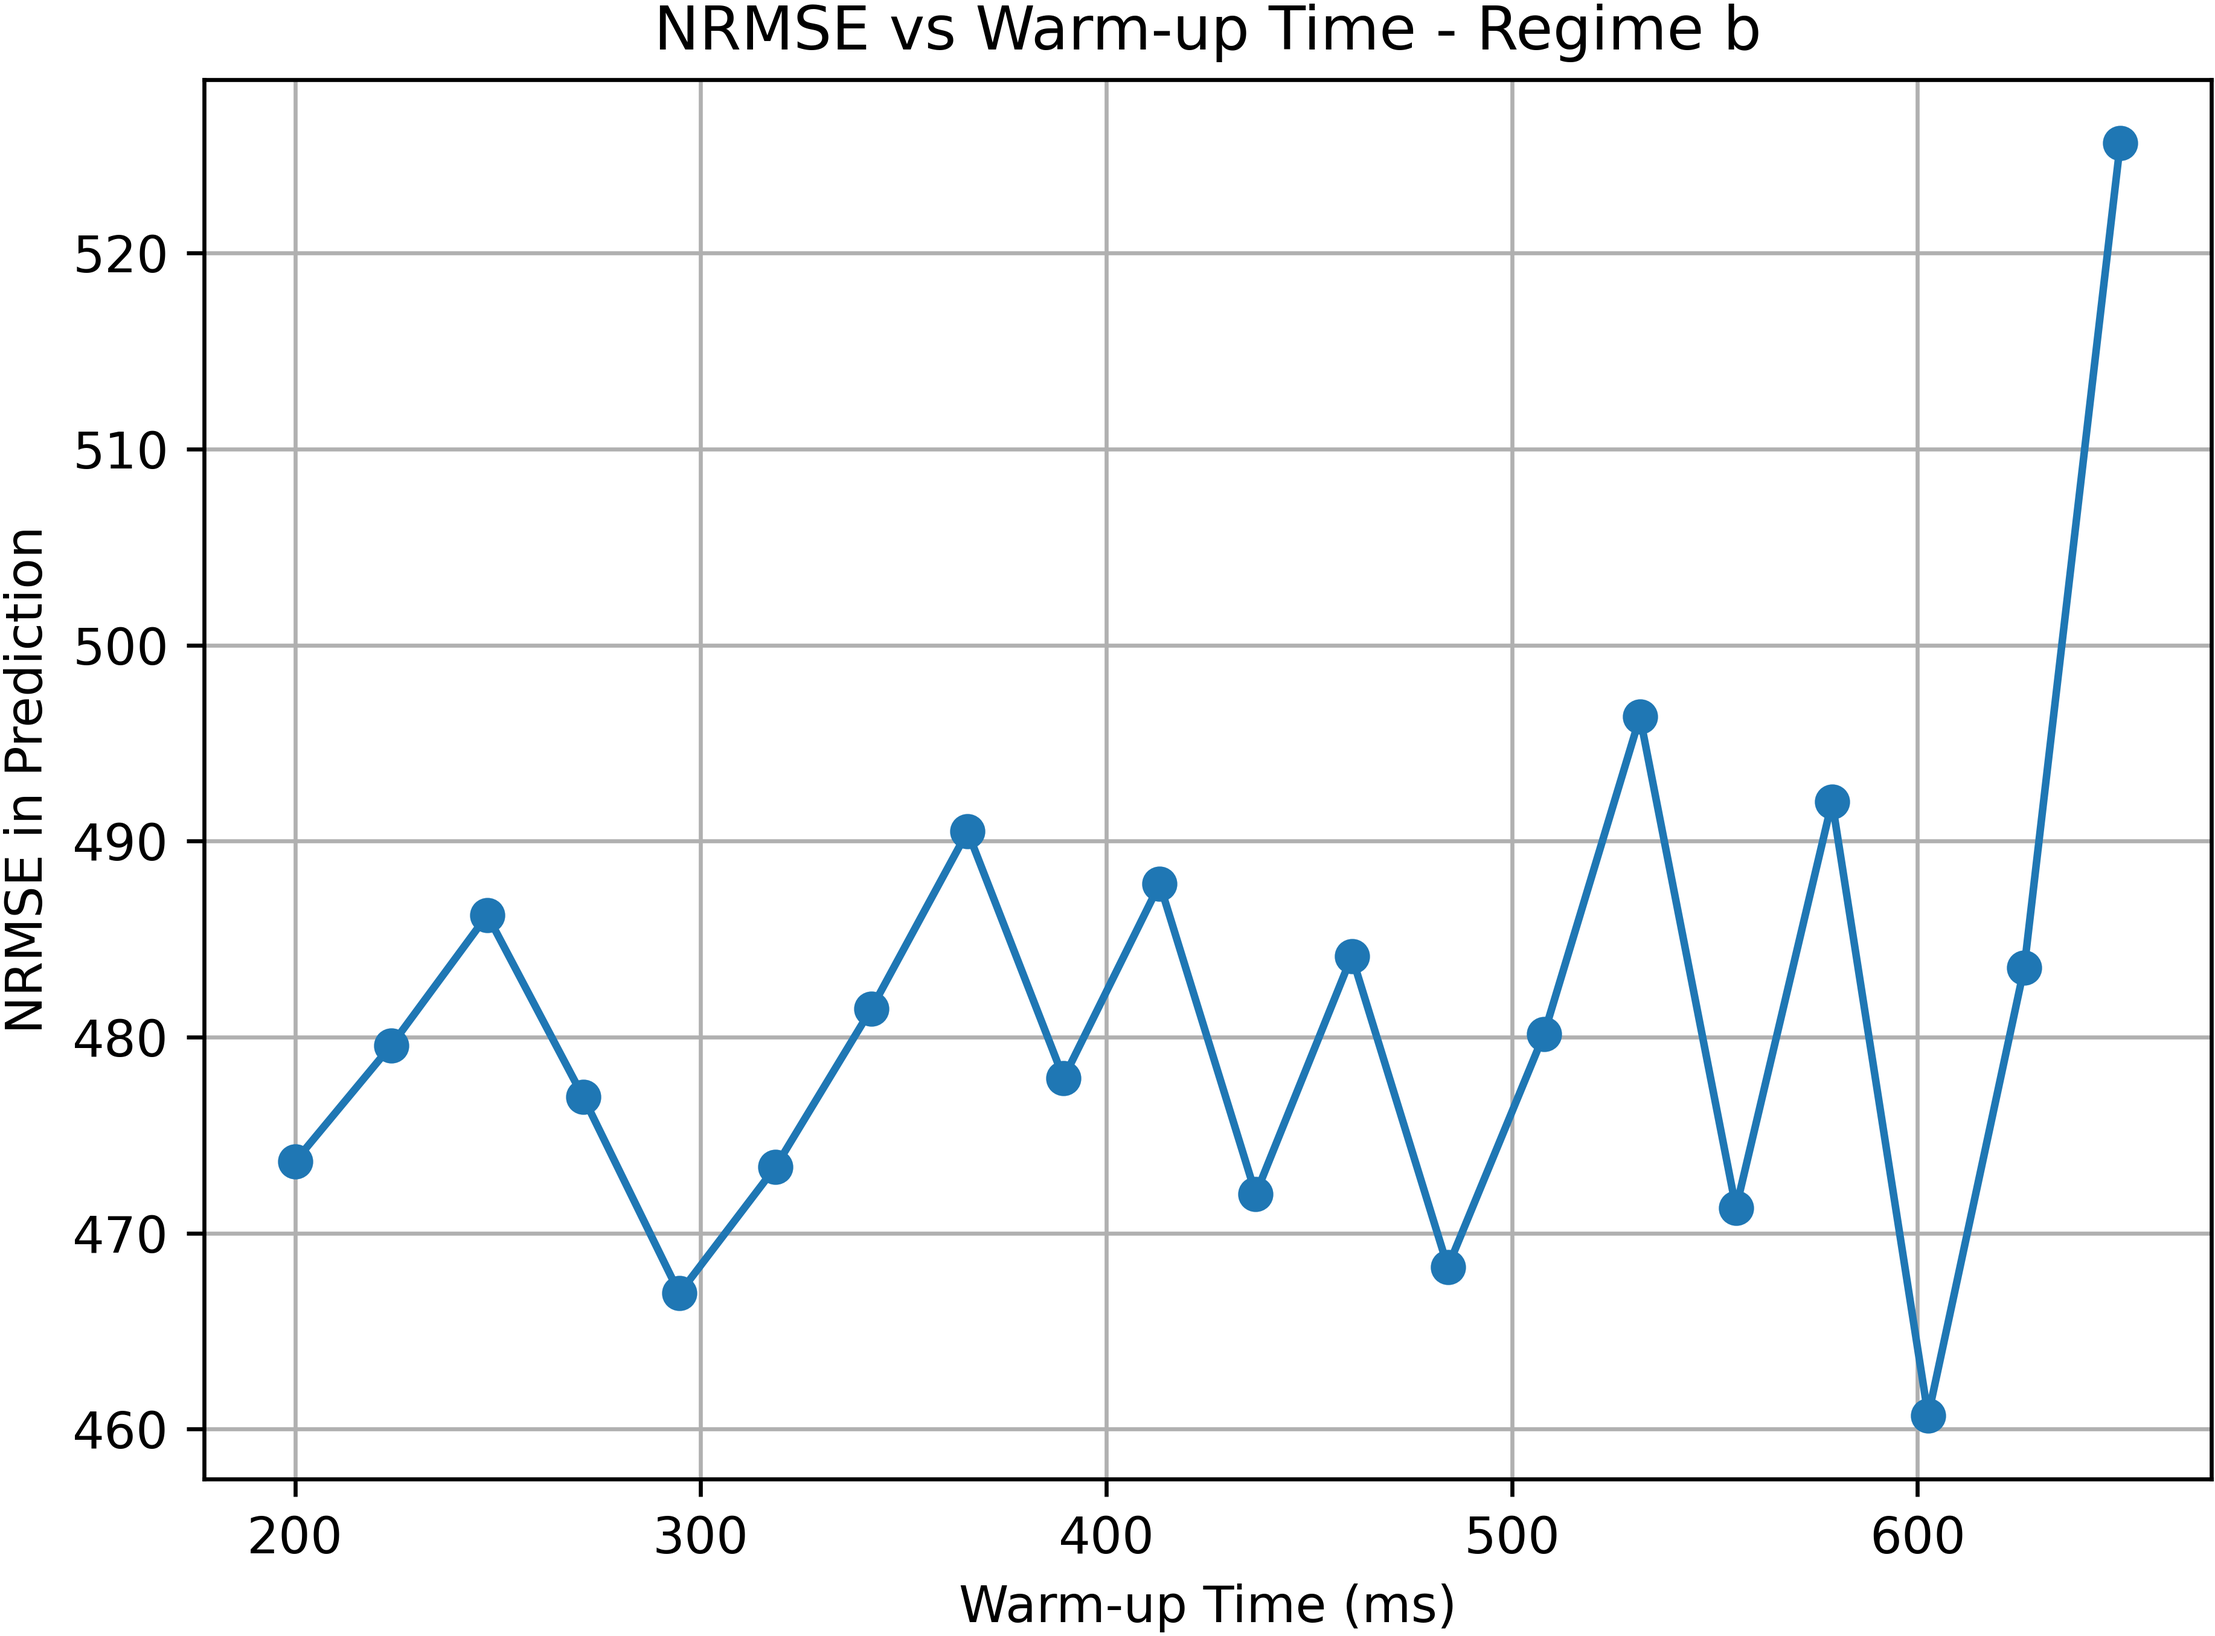
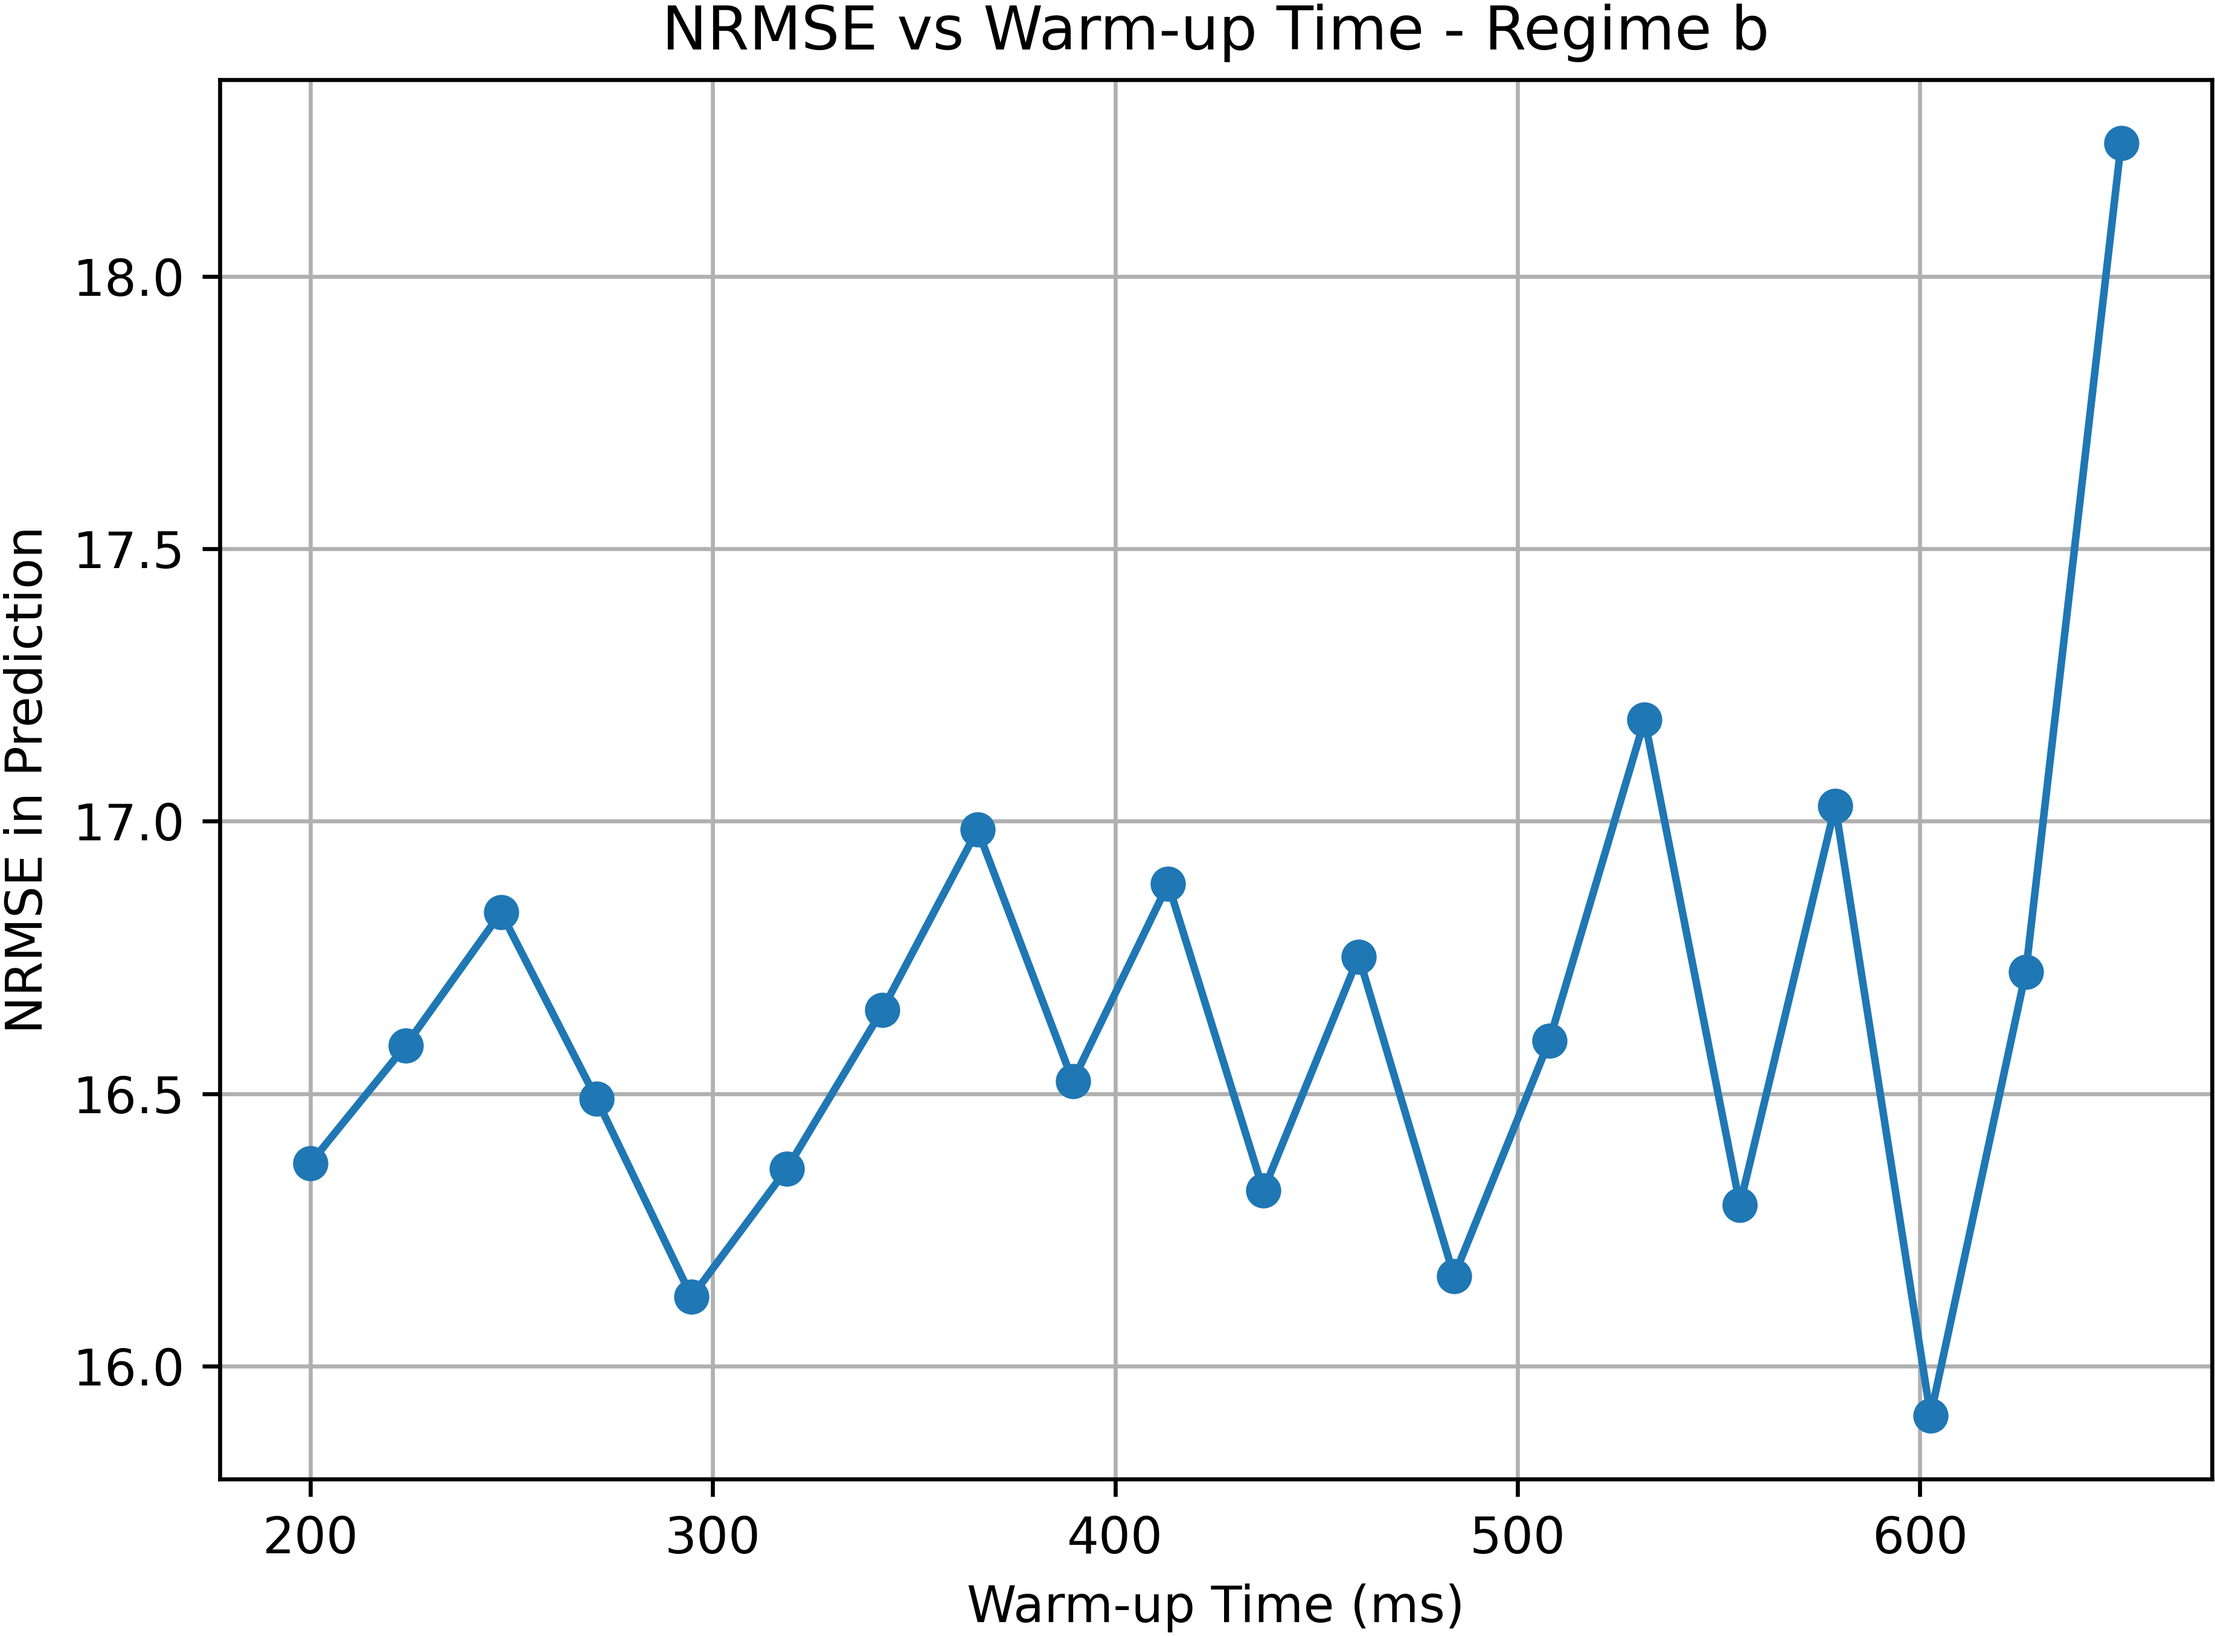
calculated warmup times for normalized data

diff --git a/B2/Prob-B-2.py b/B2/Prob-B-2.py
@@ -13,7 +13,7 @@ transient_pts = 40000  # Washed-out transient points to discard
 dt = 0.005  # Time step used in integration
 warmup_points_list = np.linspace(40001, 130000, 20, dtype=int) -1  # Warm-up points to test (adjust upper bound <= data length)
 train_fraction = 0.5
-normalize = False
+normalize = True
 
 
 
@@ -67,7 +67,7 @@ def main():
             T2_idx = T1_idx + 1 + relative_T2_idx
             T2 = warmup_points[T2_idx]
         else:
-            T2 = 200000
+            T2 = 100000
         
         warmup_times[label] = {"T1": T1, "T2": T2}
         
@@ -79,7 +79,7 @@ def main():
         plt.title(f'NRMSE vs Warm-up Time - Regime {label}')
         plt.grid(True)
         plt.tight_layout()
-        plt.savefig(f"./B2/k/Prob-B-2{label}.png", dpi=600, bbox_inches='tight', pad_inches=0.01)
+        plt.savefig(f"./B2/Prob-B-2{label}.png", dpi=600, bbox_inches='tight', pad_inches=0.01)
         #plt.show()
     
     with open("warmup_times.pkl", "wb") as f:

diff --git a/B1/hyperparameter_optimization.py b/B1/hyperparameter_optimization.py
@@ -17,7 +17,7 @@ seed = 42
 trials = 80
 repeats = 1
 jobs = 1  # -1 = adapt to CPU
-normalize = False
+normalize = True
 optimizer = "optuna"
 optimizers = ["optuna", "skopt"]
 
